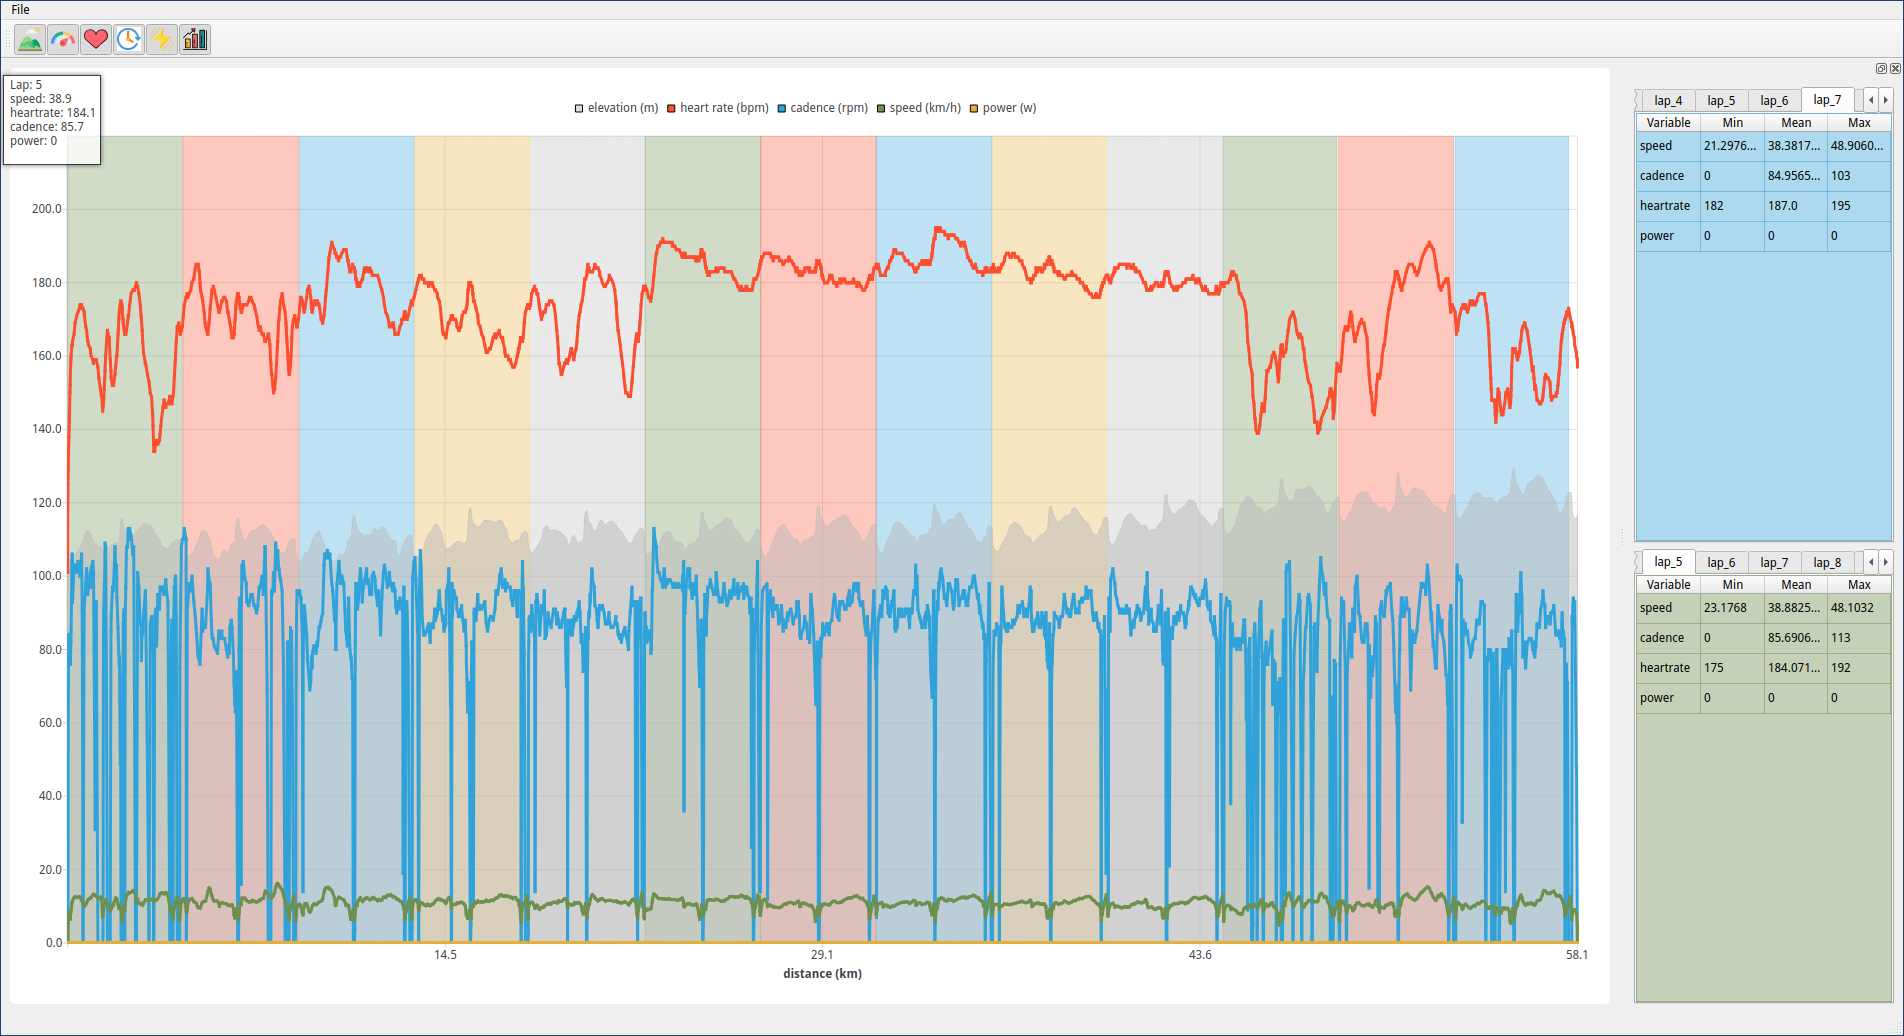
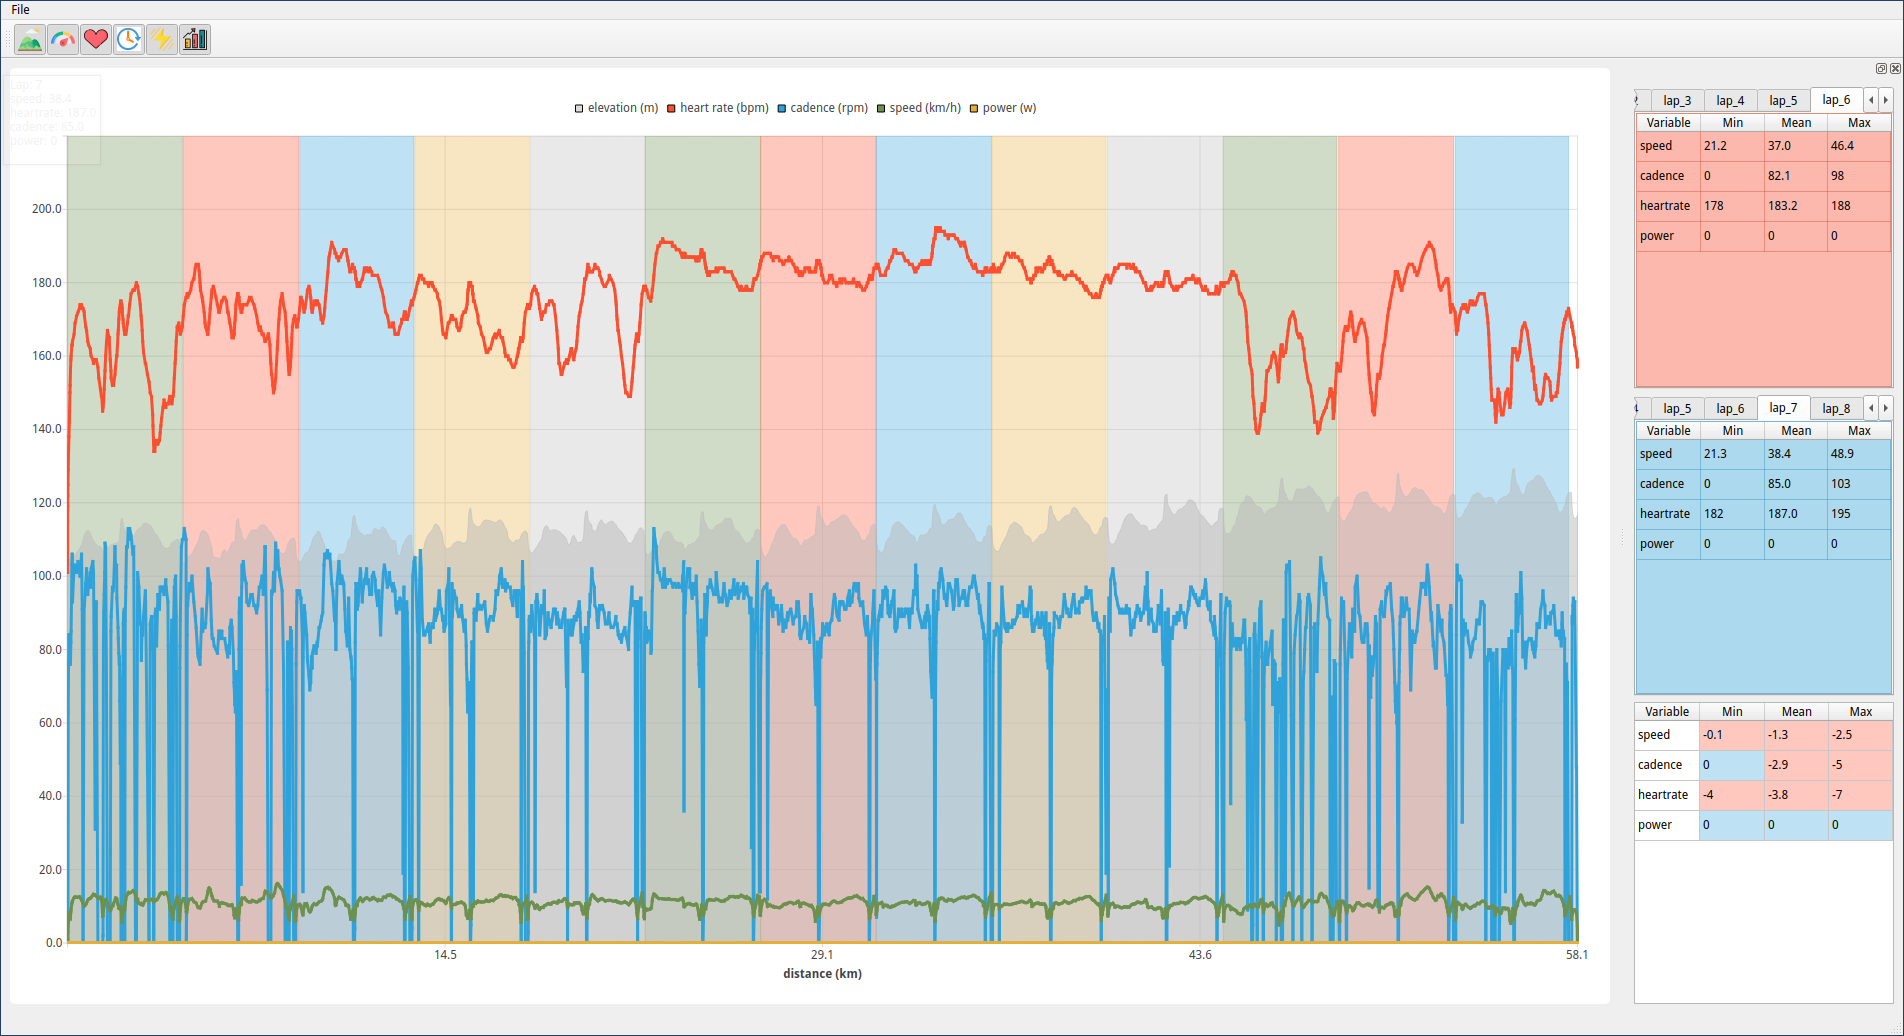
[add] add laps comparison

Changed region(s): [[0.8367, 0.0927, 1.0, 0.9884], [0.0, 0.0618, 0.062, 0.1853]]

diff --git a/main.py b/main.py
@@ -2,6 +2,7 @@
 import os
 from pathlib import Path
 import sys
+import numpy as np
 
 from PySide6.QtWidgets import QApplication, QMainWindow, QFileDialog, QGraphicsScene, QToolTip, QTableWidget, QTableWidgetItem, QHeaderView
 from PySide6.QtCore import QFile, QStandardPaths, QCoreApplication, Qt, QPoint
@@ -73,10 +74,13 @@ class QLaps(QMainWindow):
         self.yAxis.setTickCount(12)
         self.chart.addAxis(self.yAxis, Qt.AlignLeft)
 
+        self.ui.diffTable.setHorizontalHeaderLabels(["Variable", "Min", "Mean", "Max"])
+        self.ui.diffTable.horizontalHeader().setSectionResizeMode(QHeaderView.Stretch)
+        self.ui.diffTable.verticalHeader().setVisible(False)
+
     def load_ui(self):
         loader = QUiLoader()
         path = os.fspath(Path(__file__).resolve().parent / "form.ui")
-        print(path)
         ui_file = QFile(path)
         ui_file.open(QFile.ReadOnly)
         self.ui = loader.load(ui_file, self)
@@ -106,9 +110,9 @@ class QLaps(QMainWindow):
             table.verticalHeader().setVisible(False)
             for k, j in enumerate(self.gpsData.stat[i].keys()):
                 table.setItem(k, 0, QTableWidgetItem(j))
-                table.setItem(k, 1, QTableWidgetItem(str(self.gpsData.stat[i][j]["min"])))
-                table.setItem(k, 2, QTableWidgetItem(str(self.gpsData.stat[i][j]["mean"])))
-                table.setItem(k, 3, QTableWidgetItem(str(self.gpsData.stat[i][j]["max"])))
+                table.setItem(k, 1, QTableWidgetItem(str(np.around(self.gpsData.stat[i][j]["min"], 1))))
+                table.setItem(k, 2, QTableWidgetItem(str(np.around(self.gpsData.stat[i][j]["mean"], 1))))
+                table.setItem(k, 3, QTableWidgetItem(str(np.around(self.gpsData.stat[i][j]["max"], 1))))
             table.setStyleSheet("QTableWidget{{ background-color: rgba({0}, {1}, {2}, {3}); }}".format(self.colorMap[l].red(), self.colorMap[l].green(), self.colorMap[l].blue(), 100))
             self.ui.statTab.addTab(table, i)
 
@@ -120,11 +124,30 @@ class QLaps(QMainWindow):
             table1.verticalHeader().setVisible(False)
             for k, j in enumerate(self.gpsData.stat[i].keys()):
                 table1.setItem(k, 0, QTableWidgetItem(j))
-                table1.setItem(k, 1, QTableWidgetItem(str(self.gpsData.stat[i][j]["min"])))
-                table1.setItem(k, 2, QTableWidgetItem(str(self.gpsData.stat[i][j]["mean"])))
-                table1.setItem(k, 3, QTableWidgetItem(str(self.gpsData.stat[i][j]["max"])))
+                table1.setItem(k, 1, QTableWidgetItem(str(np.around(self.gpsData.stat[i][j]["min"], 1))))
+                table1.setItem(k, 2, QTableWidgetItem(str(np.around(self.gpsData.stat[i][j]["mean"], 1))))
+                table1.setItem(k, 3, QTableWidgetItem(str(np.around(self.gpsData.stat[i][j]["max"], 1))))
             table1.setStyleSheet("QTableWidget{{ background-color: rgba({0}, {1}, {2}, {3}); }}".format(self.colorMap[l].red(), self.colorMap[l].green(), self.colorMap[l].blue(), 100))
             self.ui.statTab1.addTab(table1, i)
+
+    def load_statistic_diff(self):
+        index = self.ui.statTab.currentIndex()
+        index1 = self.ui.statTab1.currentIndex()
+        if "lap_{0}".format(index) in self.gpsData.stat and "lap_{0}".format(index1) in self.gpsData.stat:
+            for k, j in enumerate(self.gpsData.stat["lap_{0}".format(index)].keys()):
+                self.ui.diffTable.setItem(k, 0, QTableWidgetItem(j))
+                self.ui.diffTable.setItem(k, 1, QTableWidgetItem(str(np.around(self.gpsData.stat["lap_{0}".format(index)][j]["min"] - self.gpsData.stat["lap_{0}".format(index1)][j]["min"], 1))))
+                self.ui.diffTable.setItem(k, 2, QTableWidgetItem(str(np.around(self.gpsData.stat["lap_{0}".format(index)][j]["mean"] - self.gpsData.stat["lap_{0}".format(index1)][j]["mean"], 1))))
+                self.ui.diffTable.setItem(k, 3, QTableWidgetItem(str(np.around(self.gpsData.stat["lap_{0}".format(index)][j]["max"] - self.gpsData.stat["lap_{0}".format(index1)][j]["max"], 1))))
+        for i in range(self.ui.diffTable.rowCount()):
+            for j in range(self.ui.diffTable.columnCount() - 1):
+                if float(self.ui.diffTable.item(i, j + 1).text()) > 0:
+                    self.ui.diffTable.item(i, j + 1).setBackground(self.colorMap[0])
+                elif float(self.ui.diffTable.item(i, j + 1).text()) < 0:
+                    self.ui.diffTable.item(i, j + 1).setBackground(self.colorMap[1])
+                else:
+                    self.ui.diffTable.item(i, j + 1).setBackground(self.colorMap[2])
+
 
     def get_plot_item(self):
         line = QPen()
@@ -194,7 +217,9 @@ class QLaps(QMainWindow):
         summary.setPalette(palette)
         rect.hovered.connect(lambda x, y: summary.showText(self.chartView.mapToGlobal(self.chartView.rect().topLeft()), self.gpsData.get_short_summary(count)))
         rect.clicked.connect(lambda x: self.ui.statTab.setCurrentIndex(count))
+        rect.clicked.connect(self.load_statistic_diff)
         rect.hovered.connect(lambda x: self.ui.statTab1.setCurrentIndex(count))
+        rect.hovered.connect(self.load_statistic_diff)
         return rect
 
     def draw_plot(self, isChecked=True, key="all"):

diff --git a/README.md b/README.md
@@ -6,6 +6,7 @@ LapAnalyzer is a tool to analyze race laps from FIT file.
 - [x] laps auto-detection
 - [x] heart rate, speed, elevation, cadence and power interactive plotting
 - [x] lap statistics
+- [x] laps comparison
 - [ ] screenshots summary exportation
 
 ## Screenshot
